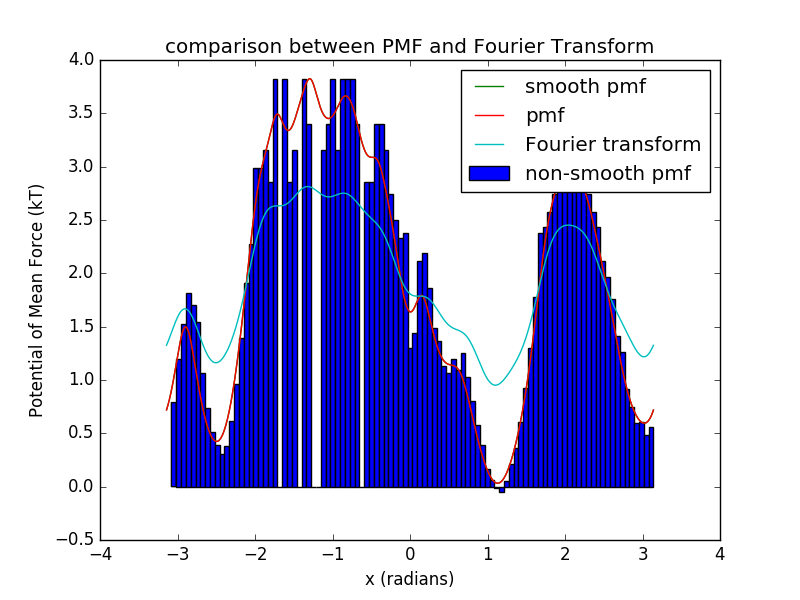
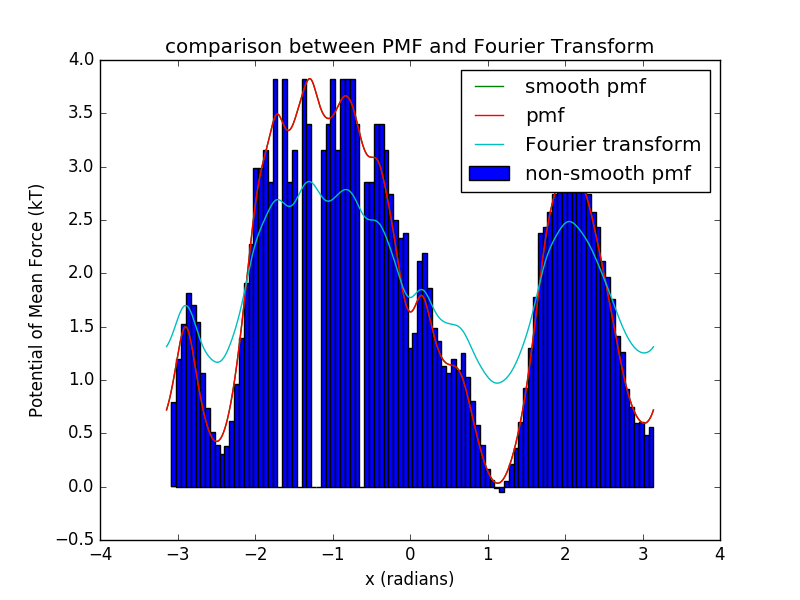
add more terms (now at 24) to fourier series approx of density kde

diff --git a/single-molecule-property-generation/torsion_fitting/fitting_example.py b/single-molecule-property-generation/torsion_fitting/fitting_example.py
@@ -86,7 +86,7 @@ def ft(x, cn, Nh):
    return f.sum()+cn[0]
 
 # generate Fourier series (complex)
-Ns = 12 # needs to be adjusted 
+Ns = 24 # needs to be adjusted 
 cf = np.zeros(Ns+1,dtype=complex)
 for i in range(Ns+1):
     cf[i] = cn(i,pmf)
